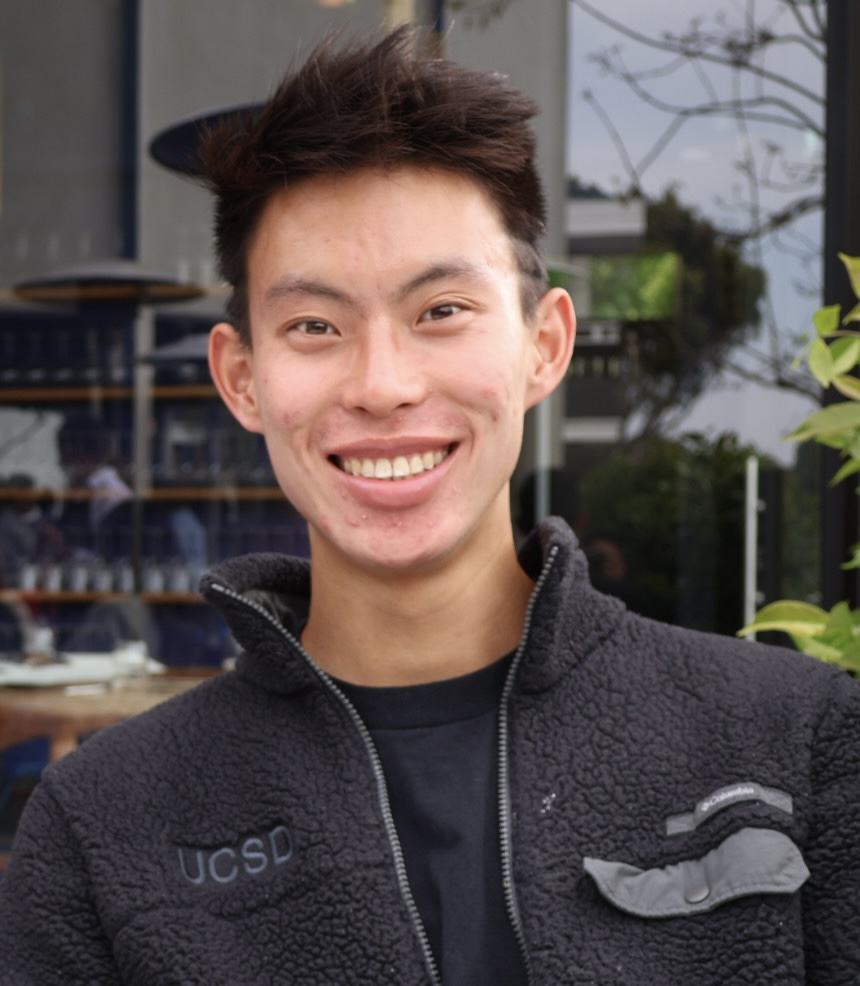
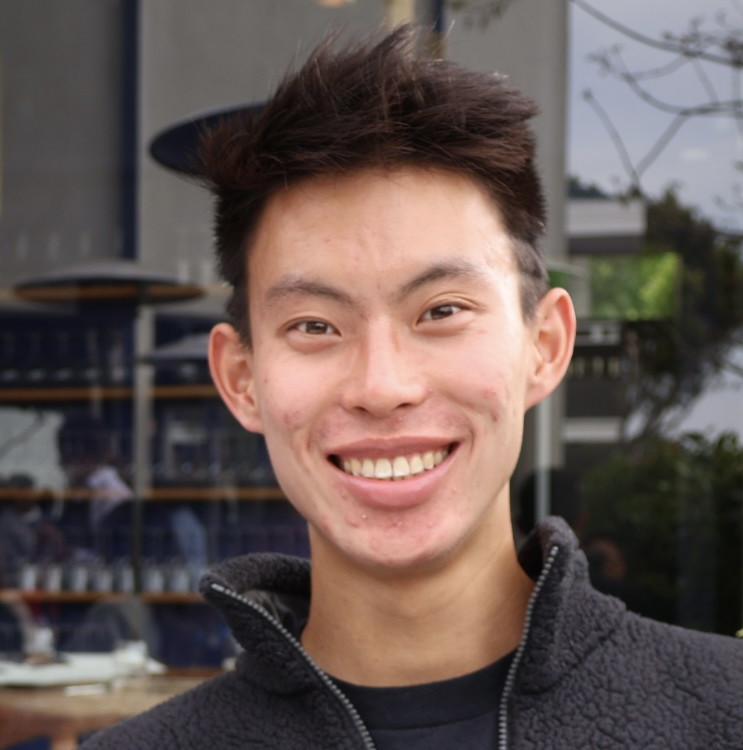
new profile pic, check homepage update

diff --git a/_pages/about.md b/_pages/about.md
@@ -7,4 +7,4 @@ redirect_from:
   - /about.html
 ---
 
-Hi, my name is Andrew!
+Hi, my name is Andrew! I'm a current Masters in Artificial Intelligence student at Northwestern and a Visiting Researcher at Harvard Medical School.
